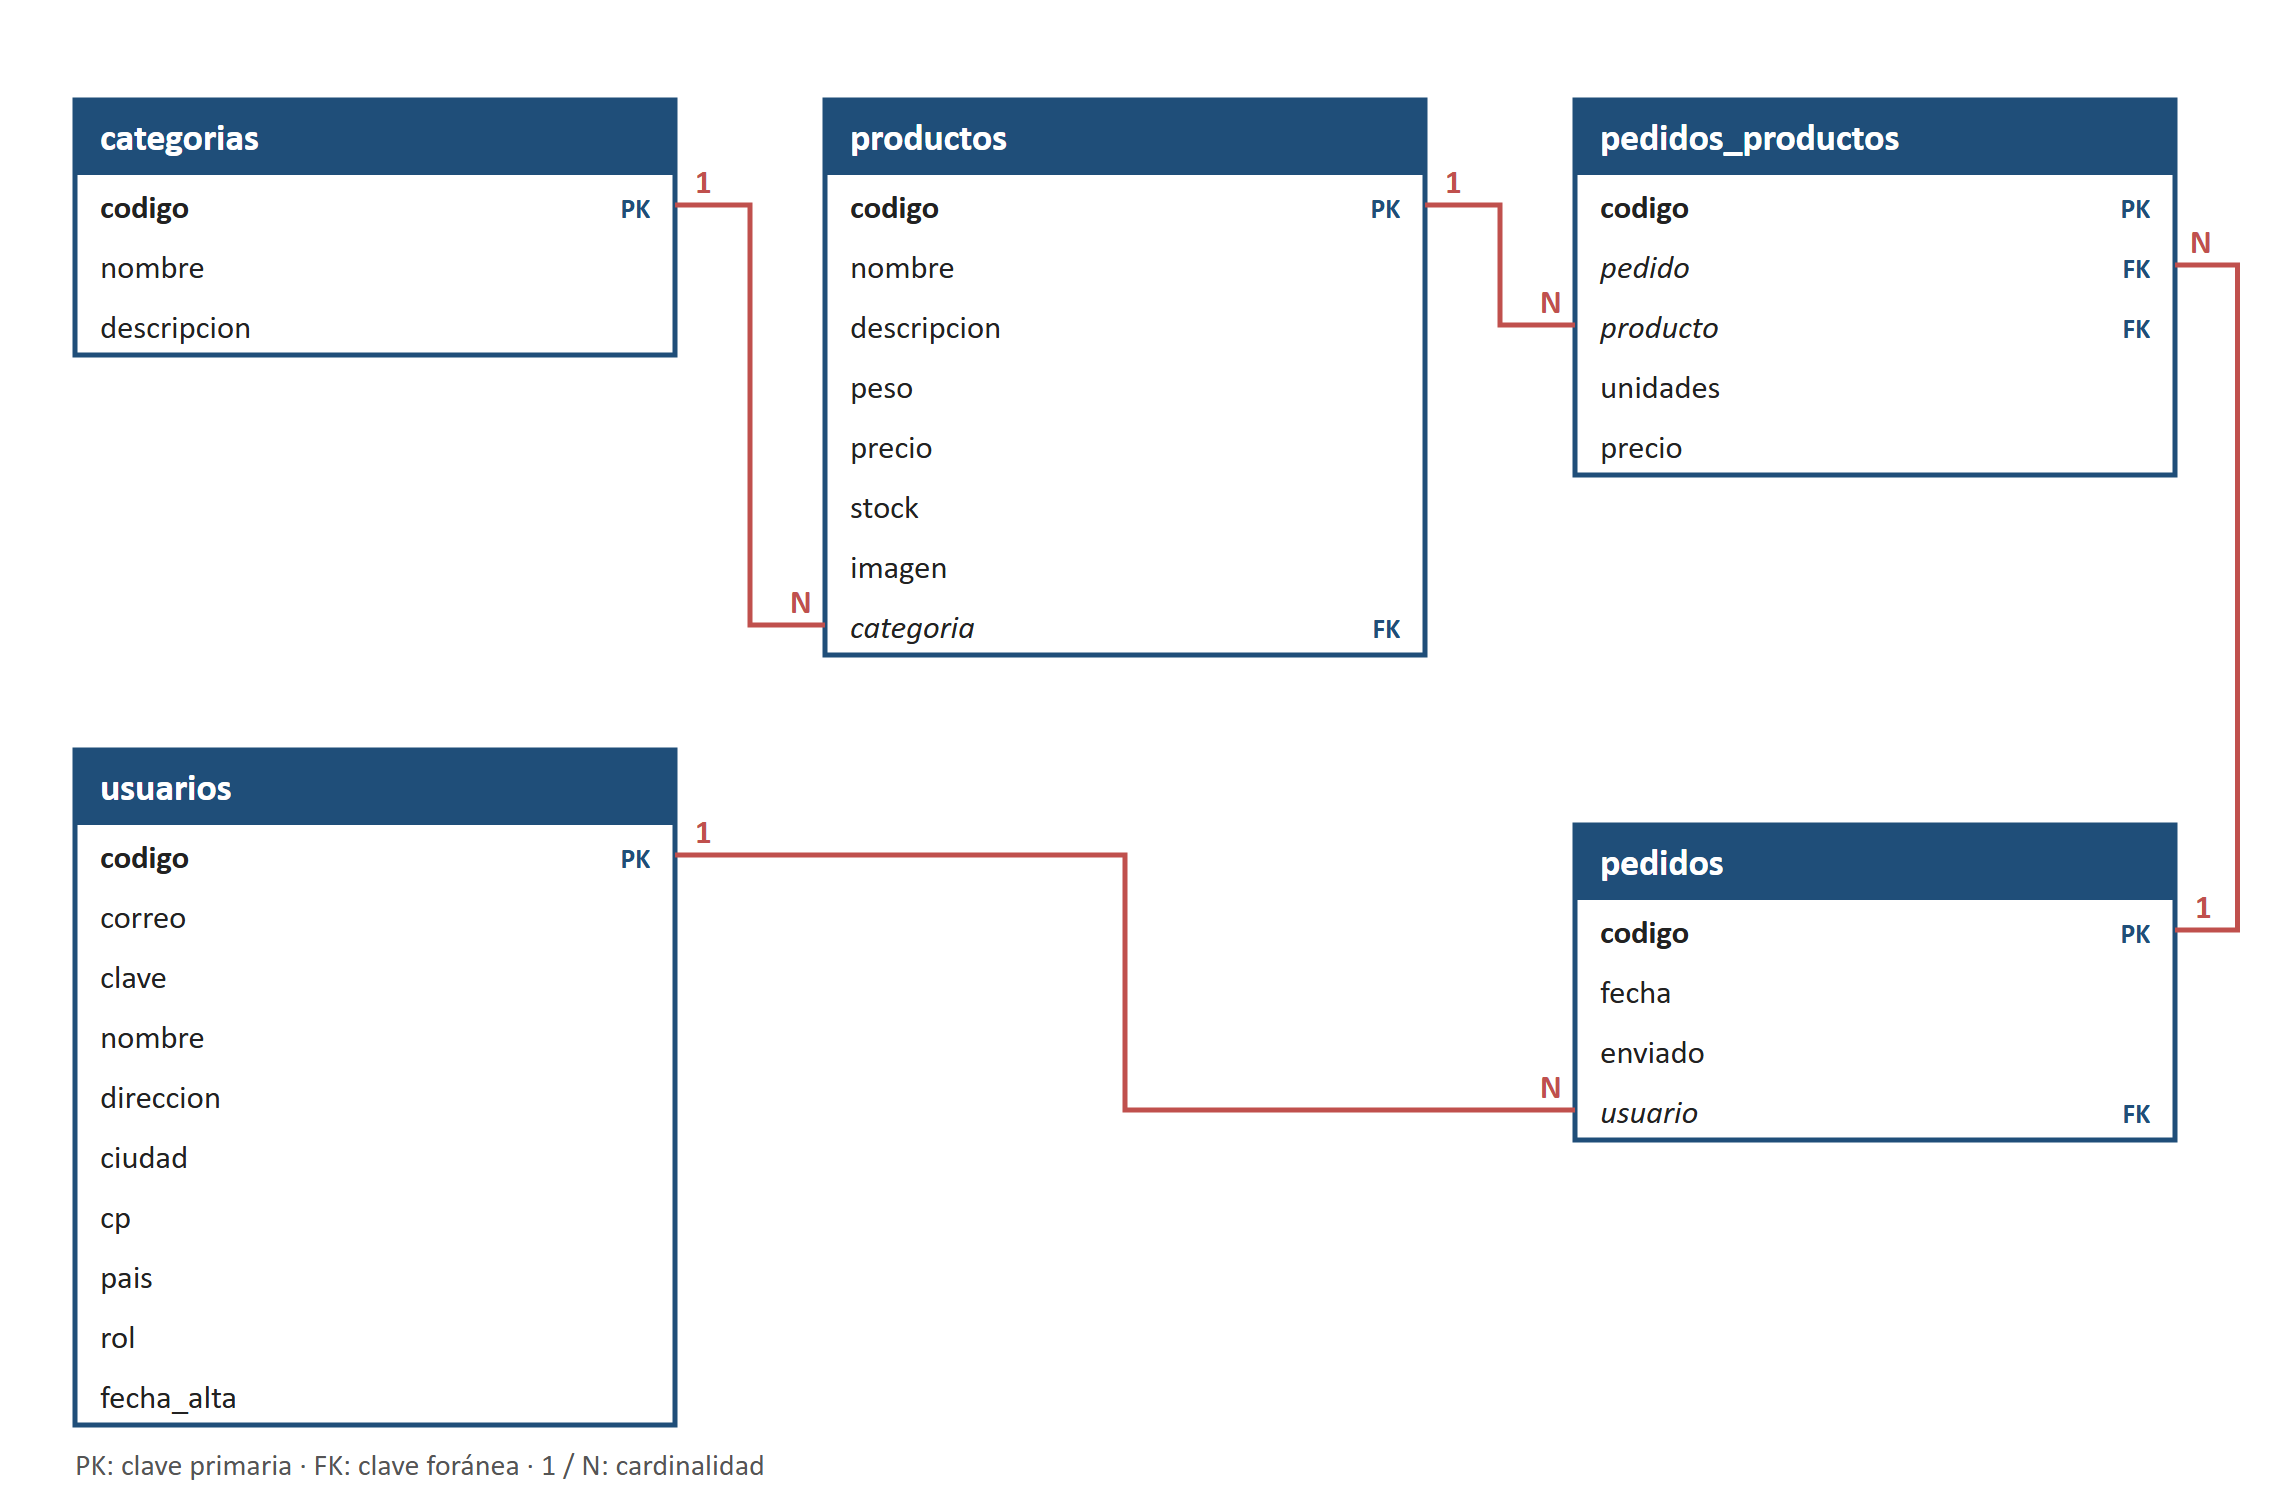
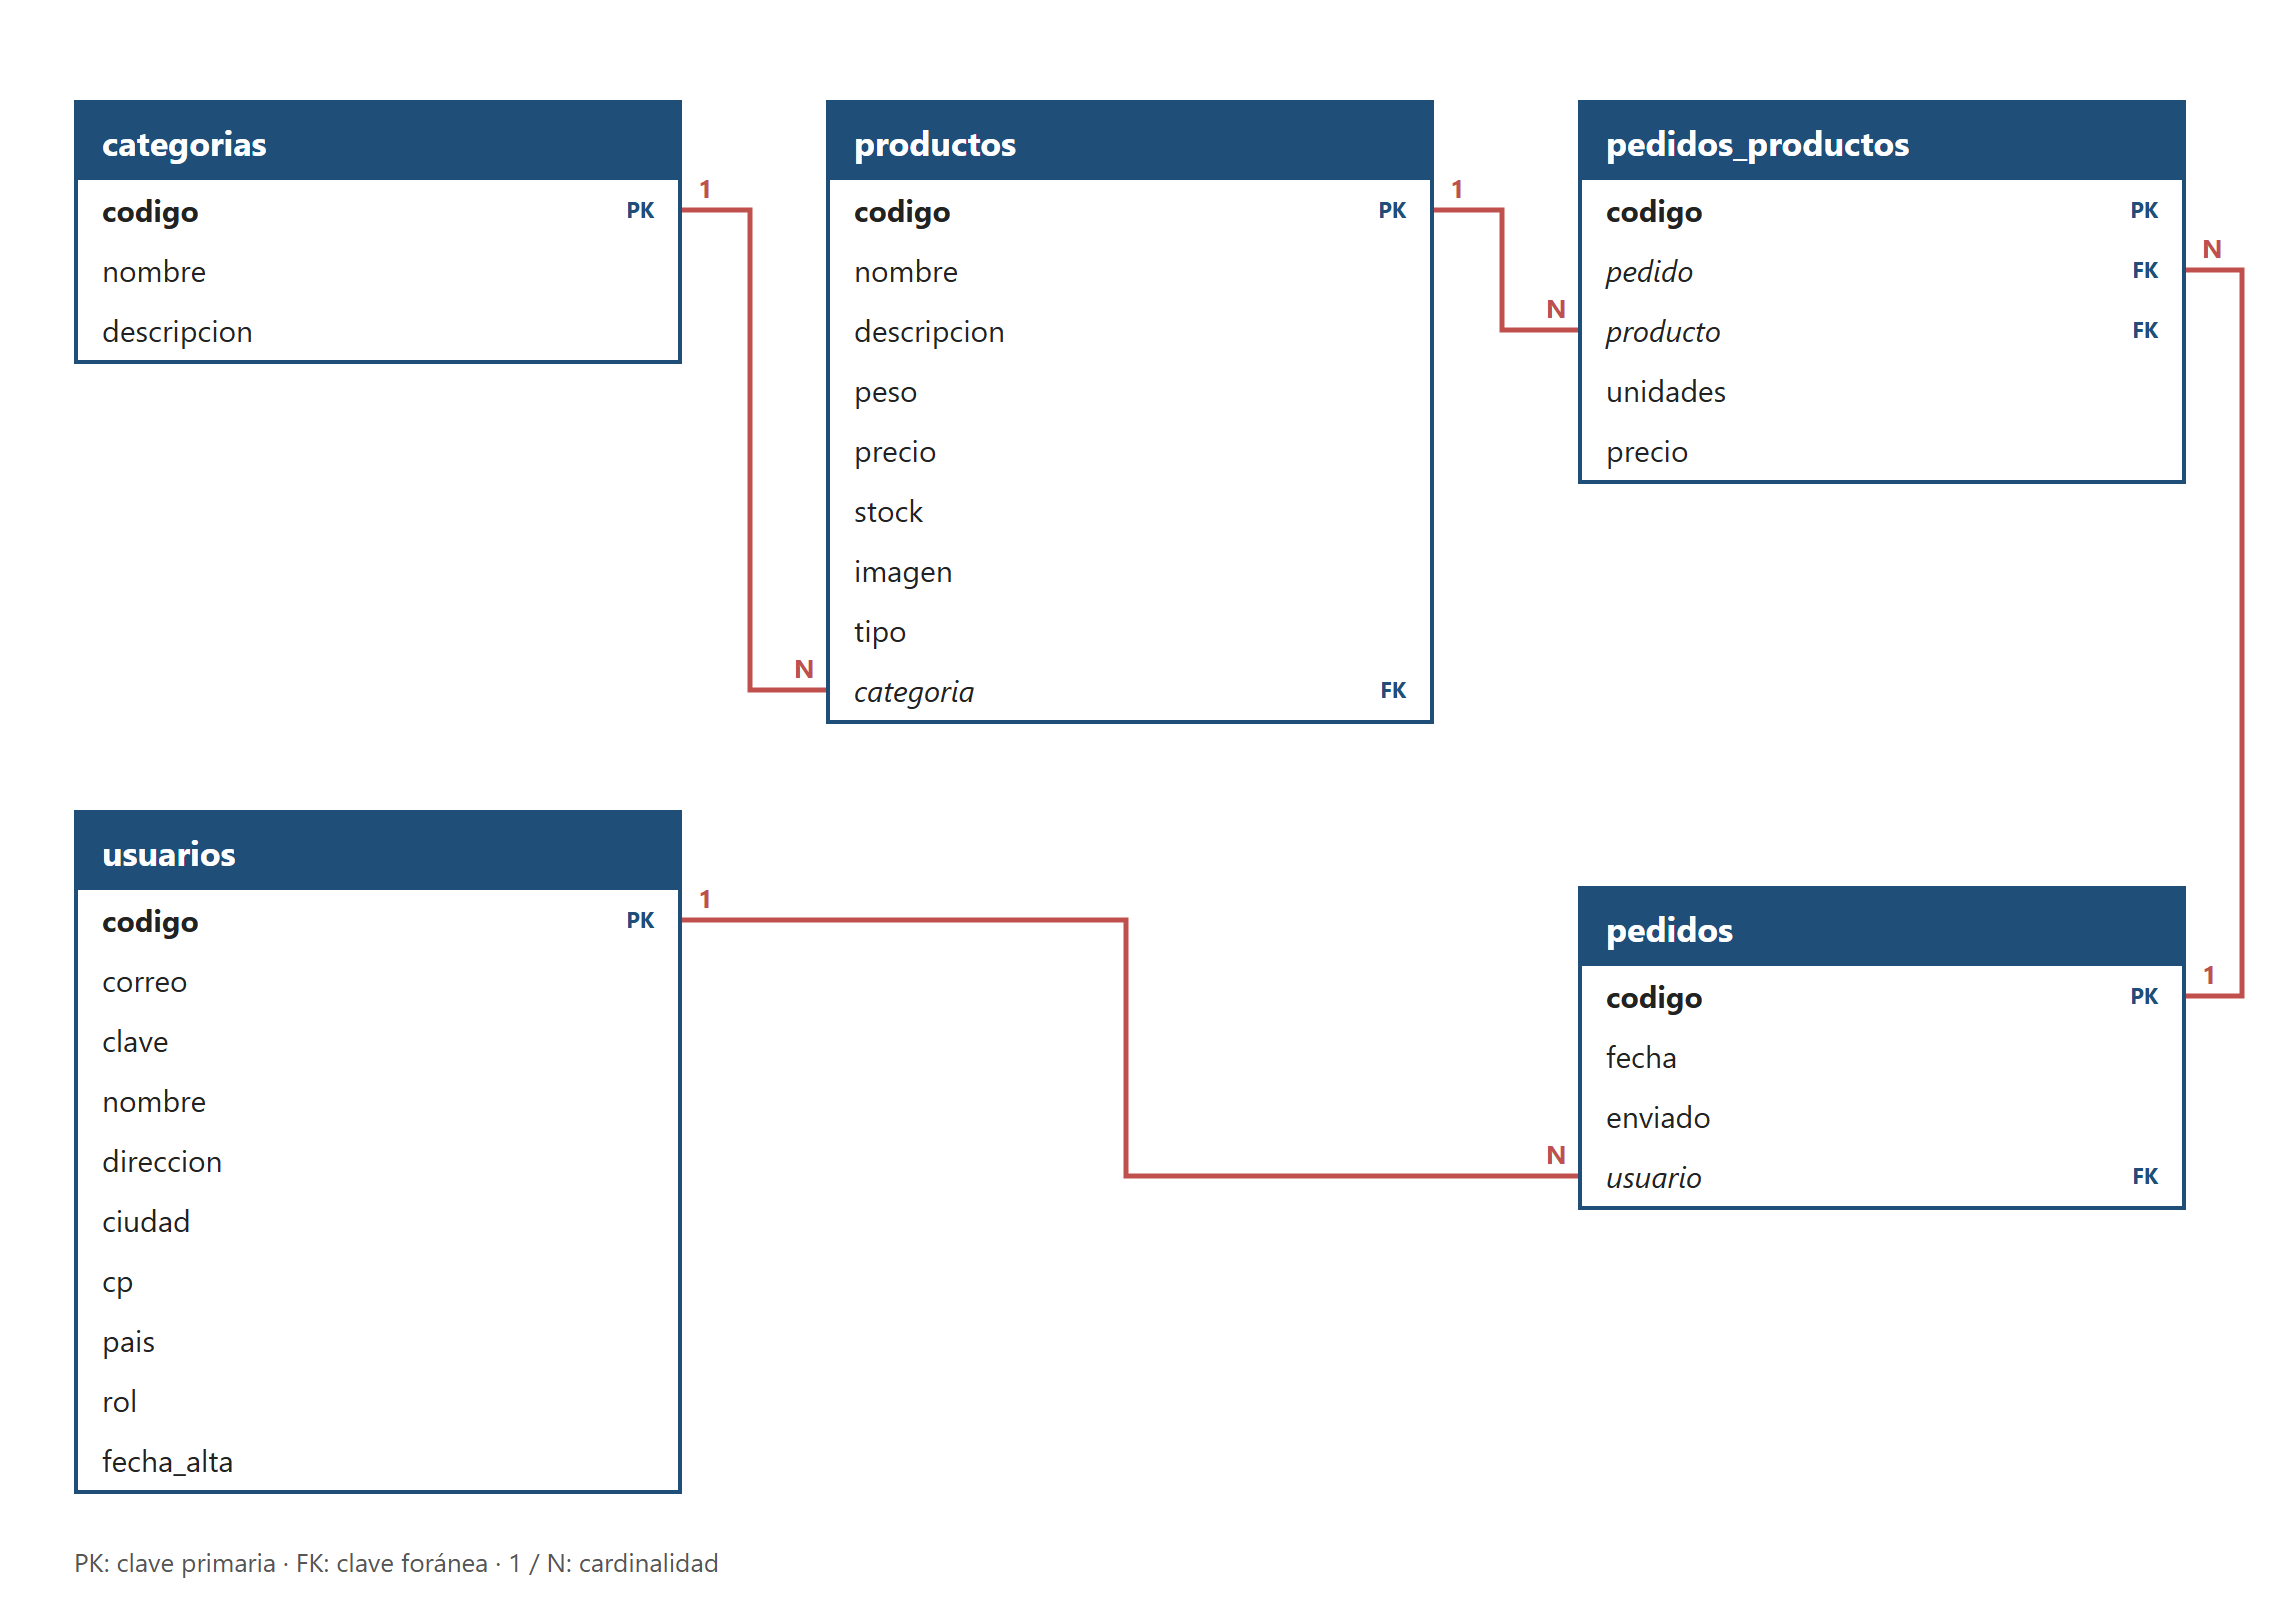
WEBSERVICIO: ExamenTienda, memoria y diagrama E-R con el filtro por tipo
- Memoria_LaPulperia.md: RF-18 (filtro por tipo) en la parte 1, con la regla de que los códigos no se renumeran; campo tipo en la tabla productos; tipos de cada categoría en el catálogo; clases, pantalla de productos y uso de JavaScript actualizados; filtro por tamaño y catálogo de 30 yerbas en líneas futuras
- diagrama_er.png: rehecho con el mismo estilo, con el campo tipo en productos

diff --git a/WEBSERVICIO/ExamenTienda/Memoria_LaPulperia.md b/WEBSERVICIO/ExamenTienda/Memoria_LaPulperia.md
@@ -75,7 +75,7 @@ Se sigue un modelo en espiral, como el que propone el libro de la asignatura: en
 | PHP 8.2 | Lógica del servidor, con programación orientada a objetos. |
 | MariaDB 10.4 (MySQL) | Base de datos relacional «pulperia», con codificación utf8mb4. |
 | PDO | Conexión de PHP con la base de datos, con consultas preparadas. |
-| HTML, CSS y JavaScript | Páginas, estilos y efectos visuales. JavaScript solo se usa para animaciones y comodidades (ver la clave, reiniciar el gif); la lógica de la tienda corre en el servidor. |
+| HTML, CSS y JavaScript | Páginas, estilos y efectos visuales. JavaScript solo se usa para animaciones y comodidades (ver la clave, reiniciar el gif, mostrar en el celular la opción elegida del filtro); la lógica de la tienda corre en el servidor. |
 | XAMPP | Servidor local (Apache + MariaDB) para desarrollar y probar. |
 | GSAP, Google Fonts y Phosphor Icons | Animaciones de entrada, tipografías (Anton, Bricolage Grotesque y Permanent Marker) e iconos, cargados desde CDN. |
 | Figma | Prototipo de las pantallas. |
@@ -84,14 +84,14 @@ Se sigue un modelo en espiral, como el que propone el libro de la asignatura: en
 
 La tienda tiene 6 categorías y 56 productos, por encima del mínimo pedido (3 categorías y 8 productos):
 
-| **Categoría** | **Productos** | **Ejemplos** |
-| --- | --- | --- |
-| Yerbas | 16 | Playadito, Taragüí, Rosamonte, Canarias, CBSé, Kraus Orgánica |
-| Mates y bombillas | 8 | Mate imperial, mate camionero, bombilla pico de loro |
-| Termos y materas | 8 | Termo Stanley, termo Lumilagro, pava con control de temperatura, matera Broksol |
-| Alfajores y dulce de leche | 8 | Havanna, Cachafaz, Guaymallén, dulce de leche La Serenísima |
-| Almacén criollo | 8 | Chimichurri, Mantecol, Criollitas, dulce de membrillo Esnaola |
-| Kits y regalos | 8 | Kit de iniciación, kit matero, kit viajero |
+| **Categoría** | **Productos** | **Tipos (filtro, RF-18)** | **Ejemplos** |
+| --- | --- | --- | --- |
+| Yerbas | 16 | Con palo, sin palo, compuesta, orgánica | Playadito, Taragüí, Rosamonte, Canarias, CBSé, Kraus Orgánica |
+| Mates y bombillas | 8 | Mates, bombillas | Mate imperial, mate camionero, bombilla pico de loro |
+| Termos y materas | 8 | Termos, materas, pavas, yerberas | Termo Stanley, termo Lumilagro, pava con control de temperatura, matera Broksol |
+| Alfajores y dulce de leche | 8 | Alfajores, dulce de leche | Havanna, Cachafaz, Guaymallén, dulce de leche La Serenísima |
+| Almacén criollo | 8 | Para el mate, para el asado, dulces, para cocinar | Chimichurri, Mantecol, Criollitas, dulce de membrillo Esnaola |
+| Kits y regalos | 8 | Para el mate, para comer | Kit de iniciación, kit matero, kit viajero |
 
 Cada categoría tiene su propia plantilla de descripción, para que todos los productos de una categoría den la misma información:
 
@@ -123,6 +123,8 @@ Sin iniciar sesión solo se puede ver la pantalla de login.
 
 ### 2.3. Requisitos funcionales
 
+Los códigos no se renumeran: un requisito que se suma después recibe el siguiente número libre (RF-18), aunque se liste en su parte. Así los códigos siguen coincidiendo con los comentarios del código fuente.
+
 **Parte 1. Gestor de productos**
 
 | **Código** | **Requisito** |
@@ -131,6 +133,7 @@ Sin iniciar sesión solo se puede ver la pantalla de login.
 | RF-02 | Al elegir una categoría, mostrar sus productos con imagen, nombre, descripción, peso y precio en euros, con su equivalente en pesos argentinos. |
 | RF-03 | Un producto con stock 0 aparece como «Sin stock» y no se puede añadir al carrito. |
 | RF-04 | <mark>PENDIENTE: confirmar con el profesor si el gestor de productos incluye un panel de alta, modificación y baja.</mark> El administrador puede dar de alta, modificar y dar de baja productos. |
+| RF-18 | En la página de una categoría, filtrar sus productos por tipo (por ejemplo, en Yerbas: con palo, sin palo, compuesta u orgánica). Los tipos y la cantidad de productos de cada uno se leen de la base de datos, y el filtro se aplica en la consulta. Solo aparece si la categoría tiene más de un tipo. |
 
 **Parte 2. Control del usuario**
 
@@ -223,6 +226,7 @@ La base de datos «pulperia» tiene cinco tablas. Las relaciones son:
 | precio | DECIMAL(8,2) | Precio en euros. |
 | stock | INT | Unidades disponibles. |
 | imagen | VARCHAR(150) | Ruta de la imagen (img/productos/…jpg). |
+| tipo | VARCHAR(30) | Tipo dentro de su categoría (con palo, bombillas…), para el filtro (RF-18). |
 | categoria | INT, FK | Categoría a la que pertenece. |
 
 **pedidos**
@@ -249,8 +253,8 @@ La base de datos «pulperia» tiene cinco tablas. Las relaciones son:
 | **Clase** | **Responsabilidad** |
 | --- | --- |
 | BaseDatos | Abre la conexión PDO una sola vez y la comparte con el resto de clases. |
-| Categoria | Lee las categorías de la base de datos, con su cantidad de productos y el precio de su producto más barato. |
-| Producto | Lee los productos de una categoría o un producto por su código, y consulta el stock. |
+| Categoria | Lee las categorías de la base de datos, con su cantidad de productos y el precio de su producto más barato, y los tipos de producto de cada una para el filtro. |
+| Producto | Lee los productos de una categoría (todos o los de un tipo) o un producto por su código, y consulta el stock. |
 | Usuario | Inicia sesión comprobando el hash, comprueba que la sesión siga activa y devuelve los datos del perfil. |
 | Carrito | Maneja $_SESSION['carrito']: añadir, quitar, vaciar y calcular el total. |
 | Pedido | Guarda el pedido en una transacción y lista los pedidos de un usuario. |
@@ -272,7 +276,7 @@ Desde cualquier pantalla con sesión iniciada se puede ir al perfil, al carrito 
 | Login | Logo, correo, clave con un botón para verla, casilla «Recordar mi correo», botón Entrar y mensaje de error si falla. | RF-05, RF-06, RF-07 |
 | Sesión caducada | El login con un aviso arriba: «Tu sesión caducó por inactividad». | RF-09 |
 | Categorías | Cabecera común (logo, nombre del usuario, carrito con el número de productos, perfil y salir) una lista de precios con el precio más barato de cada categoría («desde 2,90 €») y un afiche por categoría con su descripción, su cantidad de productos y una foto. | RF-01, RF-11 |
-| Productos | Una tarjeta por producto: imagen, nombre, descripción, peso, precio en euros (y en pesos), unidades y botón Añadir. Los que no tienen stock muestran «Sin stock». Al pasar el mouse, la foto se cambia por un gif del producto girando. | RF-02, RF-03, RF-12 |
+| Productos | Arriba, el filtro por tipo: una ficha por tipo con su cantidad de productos, y la elegida resaltada con el color de la categoría. Debajo, una tarjeta por producto: imagen, nombre, descripción, peso, precio en euros (y en pesos), unidades y botón Añadir. Los que no tienen stock muestran «Sin stock». Al pasar el mouse, la foto se cambia por un gif del producto girando. | RF-02, RF-03, RF-12, RF-18 |
 | Carrito | Tabla con producto, unidades, precio, subtotal y botón Quitar. Total en euros y en pesos y botón Confirmar pedido. | RF-13, RF-14 |
 | Confirmación | Número de pedido y resumen. Si falta stock, el aviso correspondiente. | RF-15, RF-16, RF-17 |
 | Perfil | Datos del usuario y lista de sus pedidos con fecha, total y estado. | RF-10 |
@@ -299,6 +303,8 @@ Desde cualquier pantalla con sesión iniciada se puede ir al perfil, al carrito 
 - Envío de un correo de confirmación con cada pedido.
 - Nuevas categorías: vinos (exige verificar la mayoría de edad) y carnes (exige cadena de frío y envíos especiales).
 - Renders 3D y vídeos de los productos.
+- Filtro por tamaño del paquete (500 g, 1 kg), sumado al filtro por tipo.
+- Ampliar el catálogo: hasta 30 yerbas (sin palo, barbacuá, saborizadas, uruguayas, brasileñas y paraguayas) y más mates y bombillas.
 - Ofrecer la tienda a comercios reales del rubro.
 
 ## Anexo A. Usuarios de prueba
